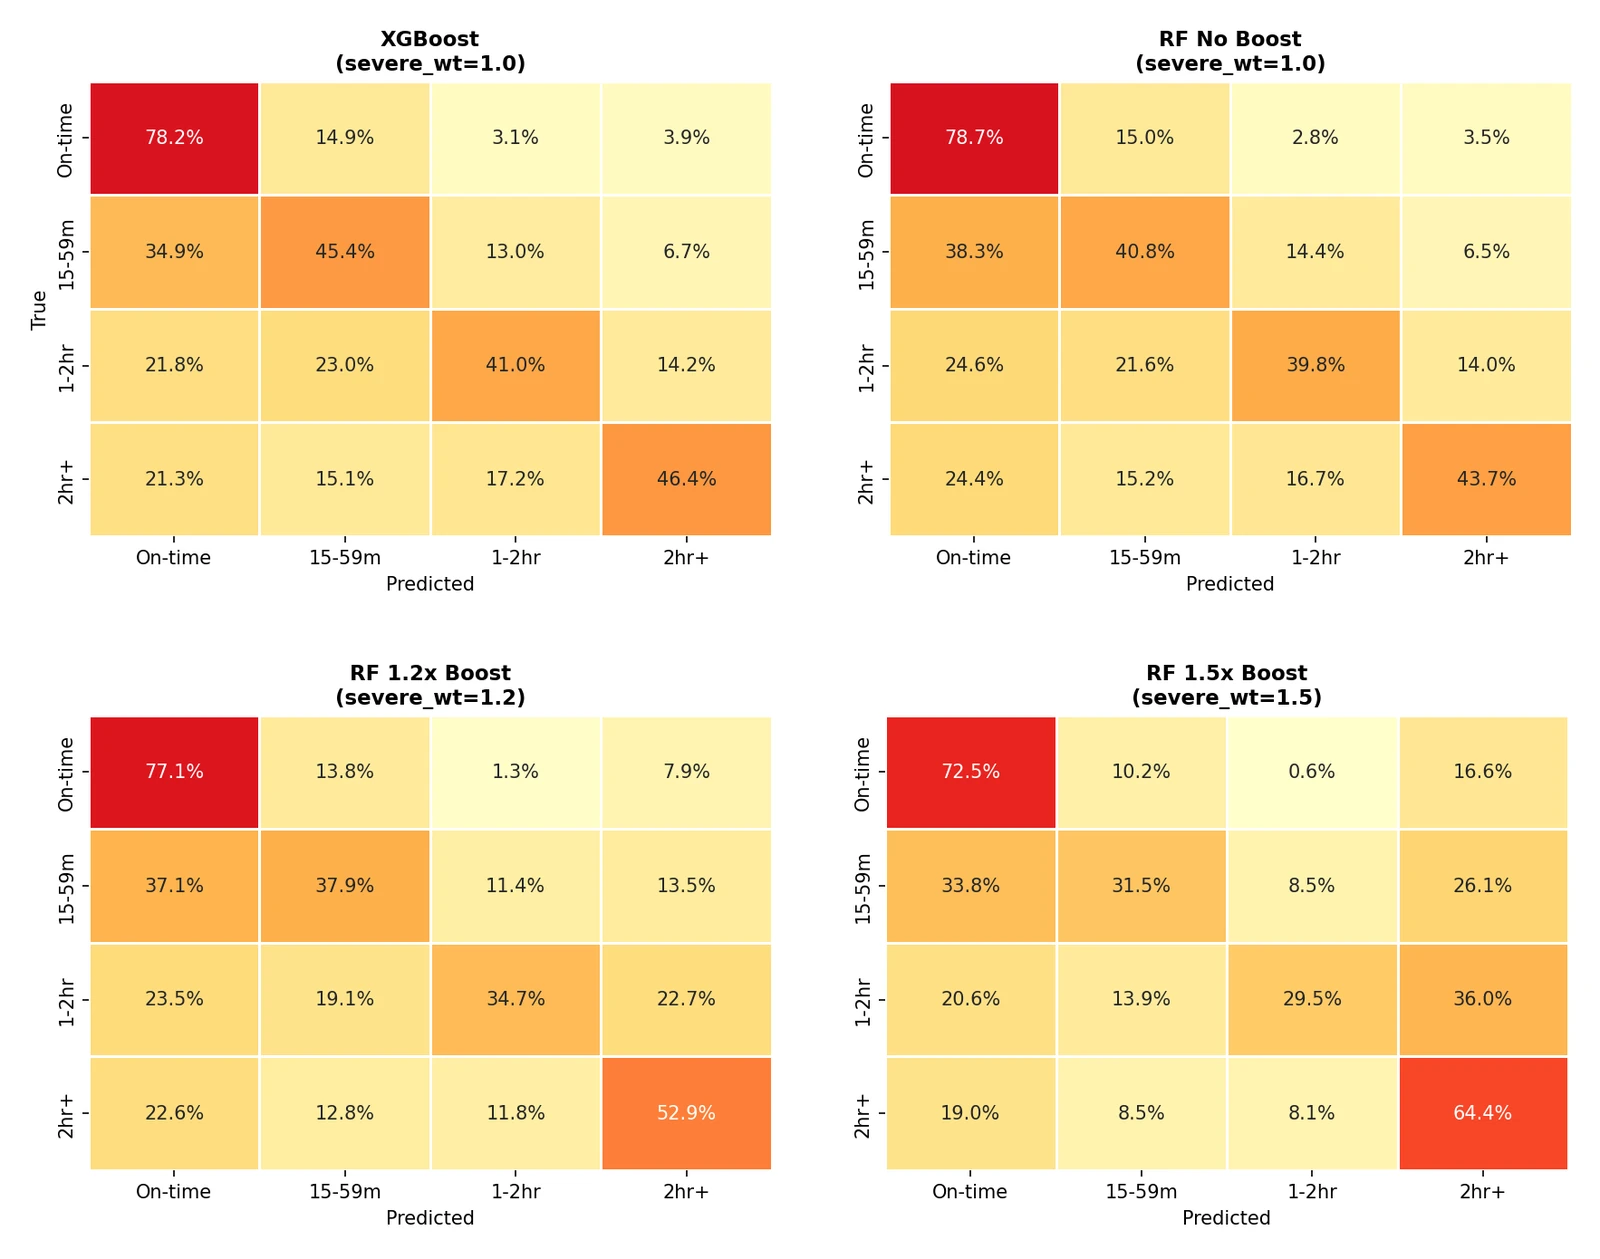
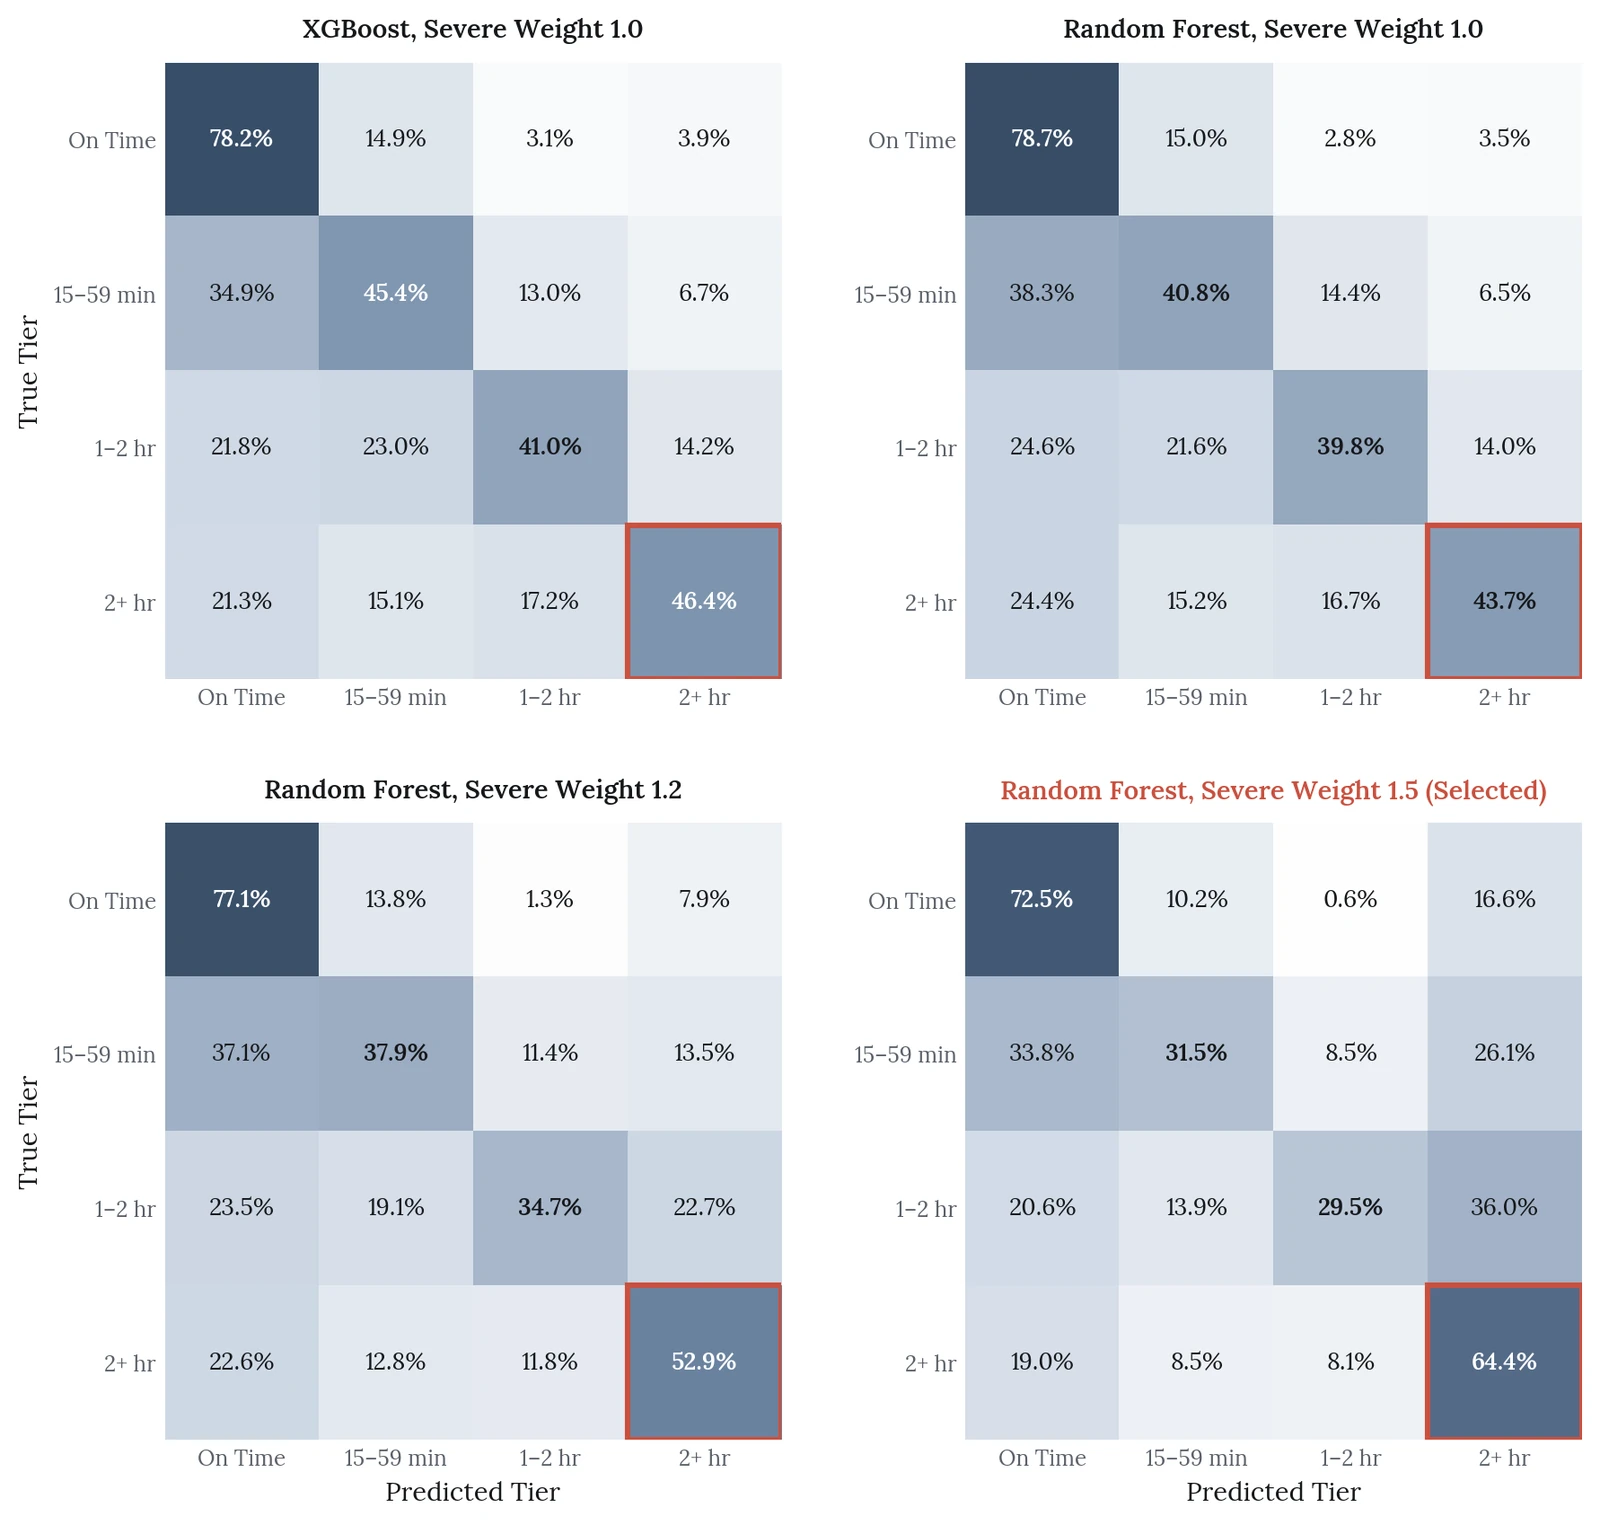
Built site for gh-pages

diff --git a/project/projects_files/flight-delay-spark/flight-delay-spark.html b/project/projects_files/flight-delay-spark/flight-delay-spark.html
@@ -845,14 +845,14 @@ window.Quarto = {
 <p>Feature importance is dominated by delay propagation. <code>inbound_delay</code> alone accounts for 41.3% of total Gini importance, <code>tail_cum_delay</code> for 22.4% and <code>origin_cum_delay_rate</code> for 8.5%, about 72% of the model together. Weather contributes roughly 3%, mostly through precipitation.</p>
 <div class="quarto-figure quarto-figure-center page-columns page-full">
 <figure class="figure page-columns page-full">
-<p><a href="assets/tree_models_feature_importance_4panel.png" class="lightbox" data-gallery="quarto-lightbox-gallery-6" title="Top 15 features for each tree model on a shared scale. The three random forests are dominated by the same three delay propagation features."><img loading="lazy" decoding="async" width="1876" height="1676" src="assets/tree_models_feature_importance_4panel.webp" class="img-fluid figure-img" style="width:100.0%" alt="Four horizontal bar charts of feature importance in percent in a two by two grid, one per tree model. In all three random forests, inbound_delay_imp leads at about 41%, followed by tail_cum_delay_imp at about 22% and origin_cum_delay_rate_imp at about 8%, with every other feature under 2%. XGBoost spreads importance differently, led by tail_cum_delay_missing_imp at about 15% and inbound_delay_imp at about 9%."></a></p>
+<p><a href="assets/tree_models_feature_importance_4panel.png" class="lightbox" data-gallery="quarto-lightbox-gallery-6" title="Top 15 features for each tree model on a shared scale. The three random forests are dominated by the same three delay propagation features."><img loading="lazy" decoding="async" width="2071" height="2018" src="assets/tree_models_feature_importance_4panel.webp" class="img-fluid figure-img" style="width:94.0%" alt="Four horizontal bar charts of feature importance in percent in a two by two grid, one per tree model, with the top feature in rust. In all three random forests, inbound delay leads at about 41%, followed by the aircraft's cumulative delay at about 22% and the origin cumulative delay rate at about 8%, with every other feature under 2%. XGBoost spreads importance differently, led by the missing flag for aircraft cumulative delay at about 15% and inbound delay at about 9%."></a></p>
 <figcaption class="margin-caption">Top 15 features for each tree model on a shared scale. The three random forests are dominated by the same three delay propagation features.</figcaption>
 </figure>
 </div>
 <p>Per-class test recalls for the selected forest are 0.725, 0.315, 0.295 and 0.644 across the four tiers. The middle tiers are the weak spot in every configuration. None of the four tree models gets them above 46% recall, and they fall to about 30% as the severe weight rises. The confusion matrix shows those flights spreading into the on-time and severe tiers more than into each other. Extra severe weight only pulls more of them into the severe tier.</p>
 <div class="quarto-figure quarto-figure-center page-columns page-full">
 <figure class="figure page-columns page-full">
-<p><a href="assets/tree_models_confusion_matrices_4panel.png" class="lightbox" data-gallery="quarto-lightbox-gallery-7" title="Row-normalized blind-test confusion matrices for the four tree models. Adding severe weight moves predictions into the 2+ hour column."><img loading="lazy" decoding="async" width="1766" height="1390" src="assets/tree_models_confusion_matrices_4panel.webp" class="img-fluid figure-img" style="width:100.0%" alt="Four confusion matrices in a two by two grid for XGBoost, random forest with no severe weight, random forest at 1.2 times and random forest at 1.5 times. Severe-tier recall rises from 46.4% and 43.7% to 52.9% and 64.4%. On-time recall falls from about 78% to 72.5%, and middle-tier recall falls from roughly 40% to 45% down to about 30%."></a></p>
+<p><a href="assets/tree_models_confusion_matrices_4panel.png" class="lightbox" data-gallery="quarto-lightbox-gallery-7" title="Row-normalized blind-test confusion matrices for the four tree models. Adding severe weight moves predictions into the 2+ hour column."><img loading="lazy" decoding="async" width="1782" height="1698" src="assets/tree_models_confusion_matrices_4panel.webp" class="img-fluid figure-img" style="width:92.0%" alt="Four confusion matrices in a two by two grid for XGBoost, random forest with no severe weight, random forest at 1.2 times and random forest at 1.5 times, the selected model. The 2+ hour recall cell is outlined in each. Severe-tier recall rises from 46.4% and 43.7% to 52.9% and 64.4%. On-time recall falls from about 78% to 72.5%, and middle-tier recall falls from roughly 40% to 45% down to about 30%."></a></p>
 <figcaption class="margin-caption">Row-normalized blind-test confusion matrices for the four tree models. Adding severe weight moves predictions into the 2+ hour column.</figcaption>
 </figure>
 </div>
